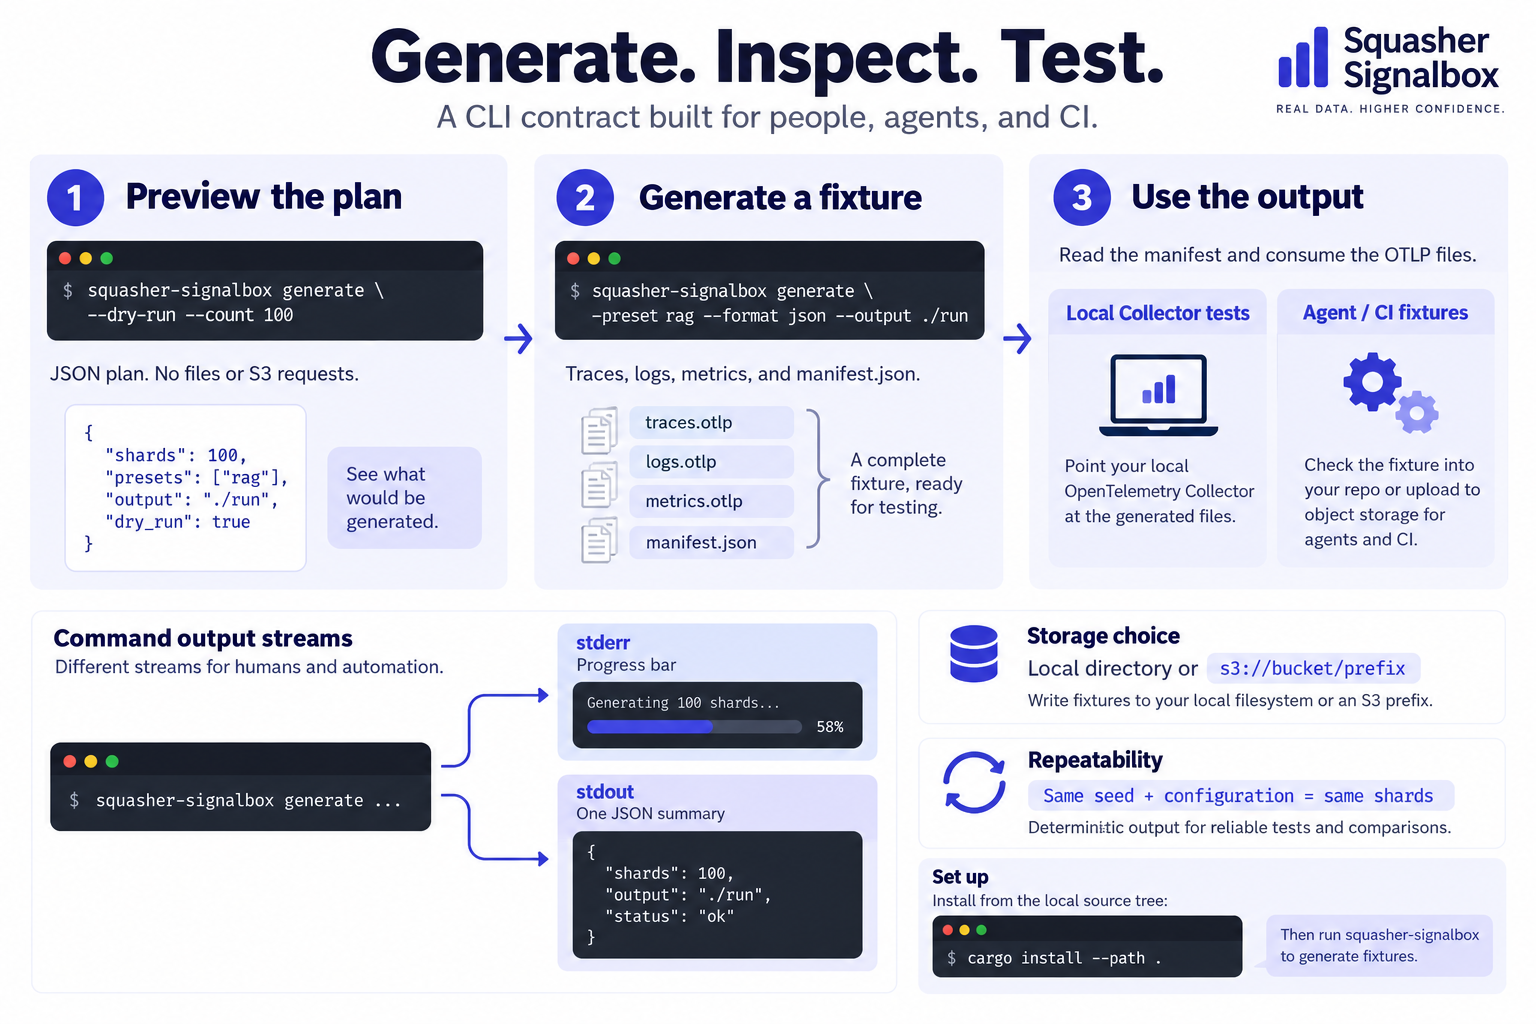
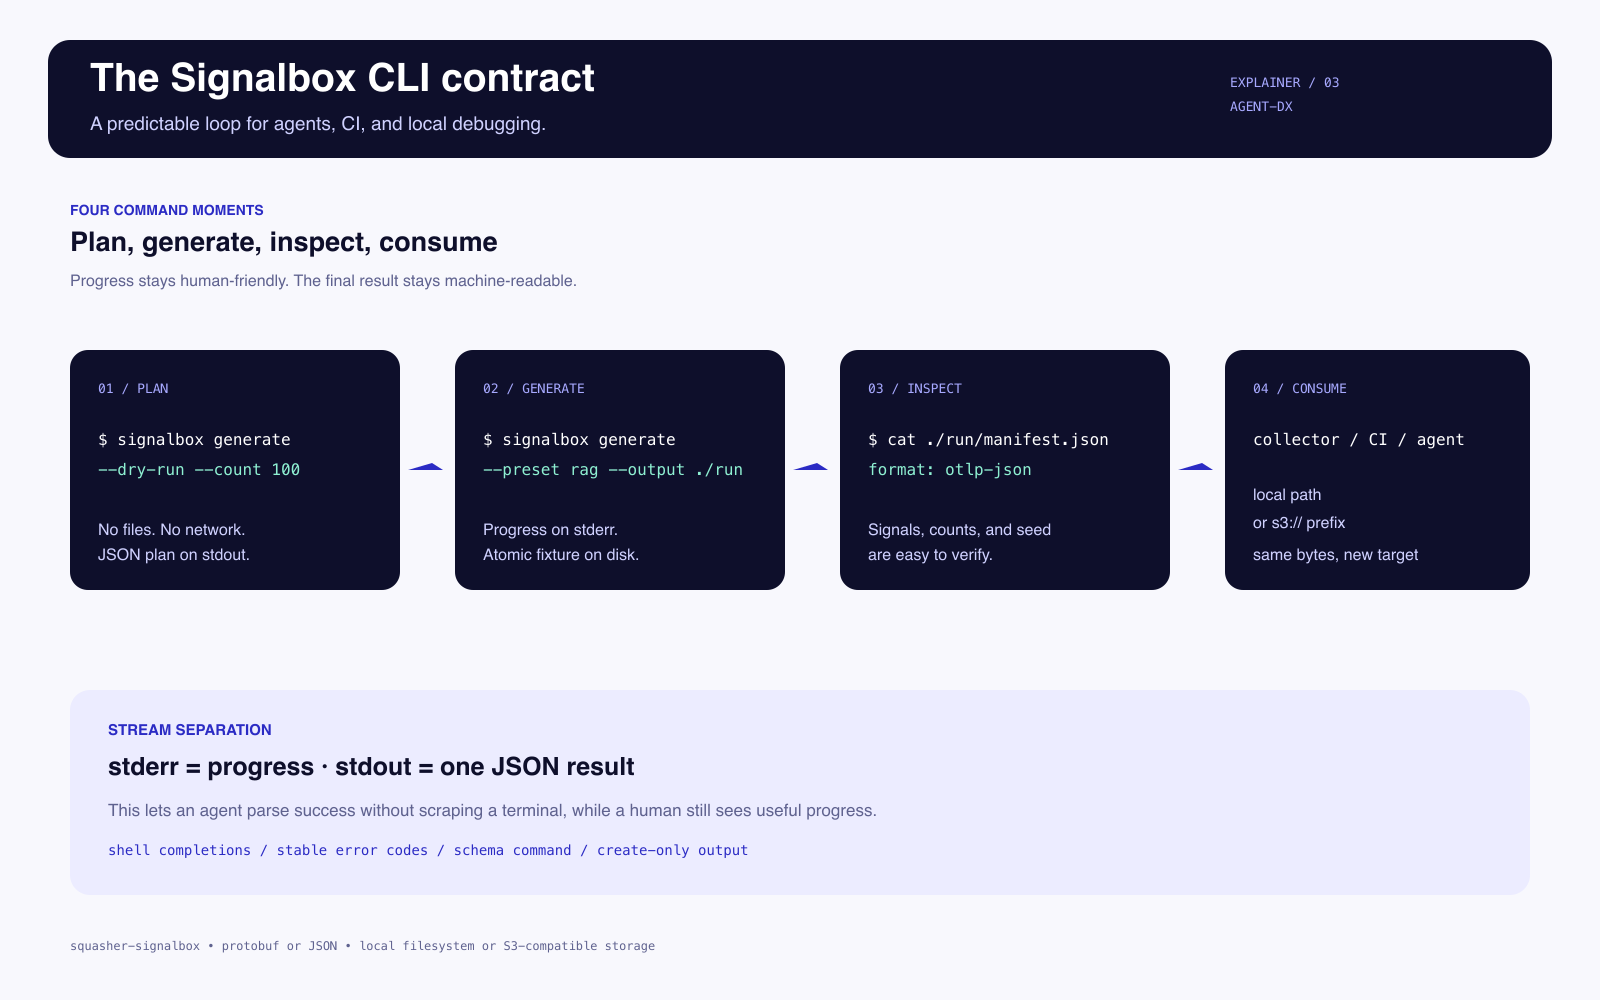
chore: finalize Signalbox rename

diff --git a/CHANGELOG.md b/CHANGELOG.md
@@ -4,6 +4,9 @@ All notable changes to Squasher Signalbox are documented here.
 
 ## [Unreleased]
 
+- Rename the repository, crate, and CLI to `signalbox`.
+- Require Rust 1.88 to match locked AWS SDK dependencies.
+
 - Renamed the project to Squasher Signalbox and added the branded `signalbox` CLI.
 - Added shell completion generation for Bash, Elvish, Fish, PowerShell, and Zsh.
 - Added agent, RAG, and web presets with correlated traces, logs, and metrics.

diff --git a/README.md b/README.md
@@ -30,7 +30,7 @@ Signalbox is designed for test evidence, not production telemetry. It writes syn
 
 ## Install
 
-Build from source with a recent stable Rust toolchain:
+Build from source with Rust 1.88 or newer:
 
 ```sh
 cargo install --path .
